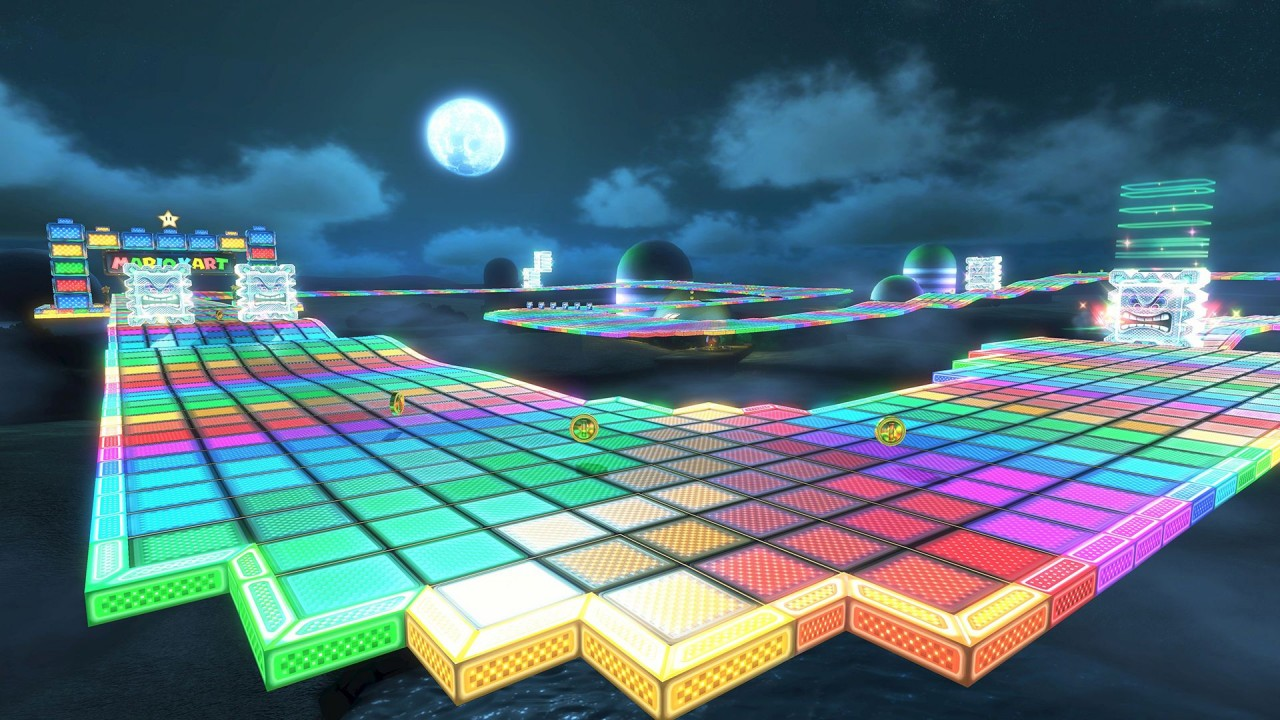
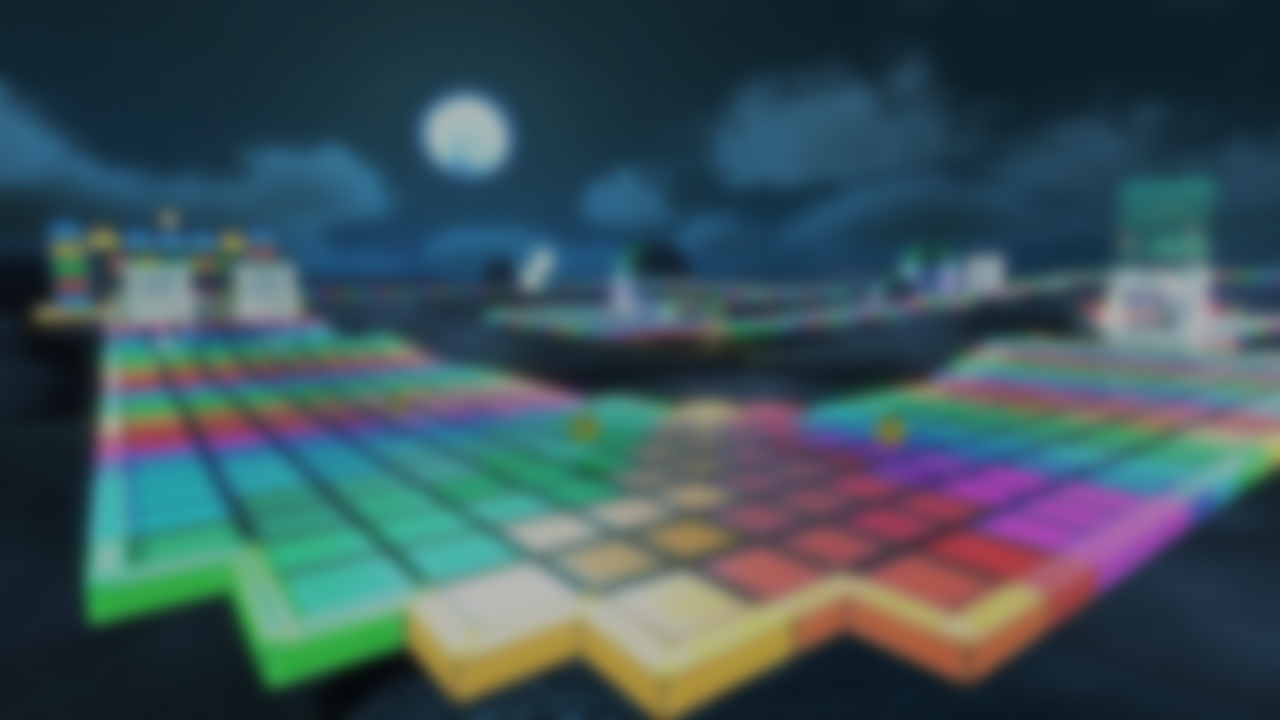
finished

diff --git a/sketch.js b/sketch.js
@@ -1,18 +1,22 @@
 var mySong;
-var myImage;
+var rainbowblur;
+var rainbow;
 var marioImage;
+var fft;
 
 function preload(){
   mySong = loadSound("./assets/rainbowroad.mp3");
-  myImage = loadImage("./assets/rainbow.jpg");
+  rainbowblur = loadImage("./assets/rainbow.jpg");
+  rainbow = loadImage("./assets/rainbow2.jpg");
   marioImage = loadImage("./assets/mario.png");
 }
 
 function setup() {
   createCanvas(windowWidth,windowHeight)
-
+  angleMode(DEGREES);
   analyzer = new p5.Amplitude();
   analyzer.setInput(mySong);
+  fft = new p5.FFT();
 }
 
 function mousePressed() {
@@ -25,38 +29,51 @@ function mousePressed() {
 
 function draw() {
   var volume = 0;
+  var spectrum = fft.analyze();
 
-  if ( mySong.isPlaying() ) {
+  if ( mySong.isPlaying()) {
     imageMode(CENTER);
-    image(myImage, width/2, height/2, width, height);
+    image(rainbow, width/2, height/2, width, 1080);
   } else {
     push();
     imageMode(CENTER);
-    image(myImage, width/2, height/2, width, height);
-    noStroke();
-    fill('rgba(0,0,0, 0.5)');
-    rect(0,0,width, height);
+    image(rainbowblur, width/2, height/2, width, 1080);
     pop();
   }
 
-  for (var i = 0; i<360; i++){
-         var angle = i;
-         volume = analyzer.getLevel();
-         volume = map(volume, 0, 1, 0, height)
-         var r = 100 + volume/4*3 + volume/4*random();
-         var ray = 100;
-         var x = r*cos(angle);
-         var y = r*sin(angle);
-         var borderx = ray*cos(angle);
-         var bordery = ray*sin(angle);
+  for (var i = 0; i< spectrum.length-200; i+=10){
+    //remap the lenght of the lines of the pattern
+    var h = map(spectrum[i], 30, 255, 0, 70);
+    if(h<0){
+     //set the values under zero back to zero
+     h=0;
+   }
 
-         strokeWeight(2);
-         stroke('white');
-         line(borderx+width/2,bordery+height/2,x+width/2,y+height/2);
-       }
 
+    //create half of the audio pattern
+    var x = map(i, 0, spectrum.length-200, 180, 0);
+      stroke('white');
+      strokeWeight(2);
+      push();
+      translate(width/2,height/2);
+      rotate(x+45);
+      //draw half of the circle
+      line(cos(x)+100, sin(x)+100, cos(x)+100+h, sin(x)+100+h);
+    pop();
+
+    var x = map(i, spectrum.length-200, 0, 360, 180);
+    push();
+      translate(width/2,height/2);
+      rotate(x+45);
+      //draw the other half
+
+      line(cos(x)+100, sin(x)+100, cos(x)+100+h, sin(x)+100+h);
+    pop();
+
+  }
+//create a mario logo that changes size depending on the volume
   volume = analyzer.getLevel();
   volume = map(volume, 0, 1, 0, height)
   imageMode(CENTER);
-  image(marioImage, width/2, height/2, 80+volume/2, 80+volume/2);
+  image(marioImage, width/2, height/2, 120+volume/2, 120+volume/2);
 }
